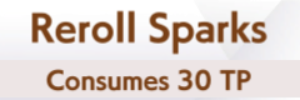
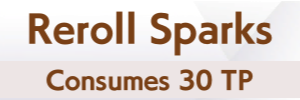
recapture the reroll sparks button so the career-end sparks screen detects
The spark auto-reroll never fired because the button template
under-scored the live button - 0.783 against the 0.80 detection bar -
so the sparks screen classified as unknown and the generic post-run
path clicked Confirm straight past it, keeping whatever sparks rolled
first. Diagnosed from a 160-frame burst capture of a live career end:
three frames held the button at an identical position just under the
bar, the classic stale-capture signature. The template is now cropped
from one of those frames at the old capture's matched footprint, so
the click center is unchanged; it scores 1.00 on the sparks frames and
0.40 on the next-best non-sparks frame.

The old note that the button dims to ~0.69 under the Confirm Reroll
dialog was measured with the stale capture - the dialog-closed
inference needs re-measuring at the first supervised reroll.

Changed region(s): [[0.48, 0.09, 0.93, 0.57], [0.15, 0.69, 0.87, 0.93], [0.09, 0.09, 0.45, 0.45]]

diff --git a/android/app/src/main/java/com/steve1316/uma_android_automation/components/Button.kt b/android/app/src/main/java/com/steve1316/uma_android_automation/components/Button.kt
@@ -380,8 +380,11 @@ object ButtonCloseWide : ButtonInterface {
 }
 
 /** "Reroll Sparks / Consumes 30 TP" on the career-end SPARKS screen - unique to that screen,
- * so it doubles as the screen's detection anchor. Dimmed under the Confirm Reroll dialog
- * (scores ~0.69 there), so a fresh match implies the dialog is NOT up. */
+ * so it doubles as the screen's detection anchor. Recaptured 2026-07-10 from a live career-end
+ * frame: the original capture under-scored the live button (0.783 vs the 0.80 bar) so the sparks
+ * screen was never detected and the generic post-run path confirmed straight past it. The old
+ * "dimmed under the Confirm Reroll dialog scores ~0.69" measurement predates the recapture -
+ * re-verify the fresh-match-implies-dialog-closed inference at the first supervised reroll. */
 object ButtonRerollSparks : ButtonInterface {
     override val template = Template("components/button/reroll_sparks", region = Region.bottomHalf)
 }

diff --git a/src/data/searchConfig.ts b/src/data/searchConfig.ts
@@ -37,7 +37,8 @@ const searchConfig: SearchOption[] = [
     {
         id: "settings-dating-schedule",
         title: "Enable Support Card Dating Schedule",
-        description: "Performs a recreation outing on the selected preset's pinned career turns to advance a Group support card's outing chain, holding the final outing for the Pure Passion turn where the preset times it.",
+        description:
+            "Performs a recreation outing on the selected preset's pinned career turns to advance a Group support card's outing chain, holding the final outing for the Pure Passion turn where the preset times it.",
         page: "SettingsMain",
     },
     {

diff --git a/CHANGELOG.md b/CHANGELOG.md
@@ -17,6 +17,7 @@ The format follows [Keep a Changelog](https://keepachangelog.com/en/1.1.0/), and
 
 ### Fixed
 
+- The career-end spark auto-reroll never actually fired: the bot didn't recognize the "Reroll Sparks" button on the sparks screen, so it clicked Confirm straight past it and silently kept whatever sparks rolled first -- on every career since the feature shipped. The button is now detected reliably. If you enable the reroll, keep an eye on its first use.
 - When a rotation gets knocked out of sync (say, by a game update mid-queue) and the bot recovers, the resumed career now actually runs on the right trainee's preset. It used to fix the queue but keep the wrong trainee's stat priorities, racing plan, event picks, and skill plan until the career ended -- at one point Winning Ticket ran a full career on Symboli Rudolf's settings. Everything is reloaded from the correct preset now.
 - Every rotation career now states in its log, right at career start, whether it is running the settings its rotation slot intended -- so a wrong-settings launch is visible immediately instead of only being discovered after a bad career.
 - Each career's log file now contains exactly that one career. On a long queue session, every file used to also carry the tail end of all the careers before it, which made them confusing to read and share.
